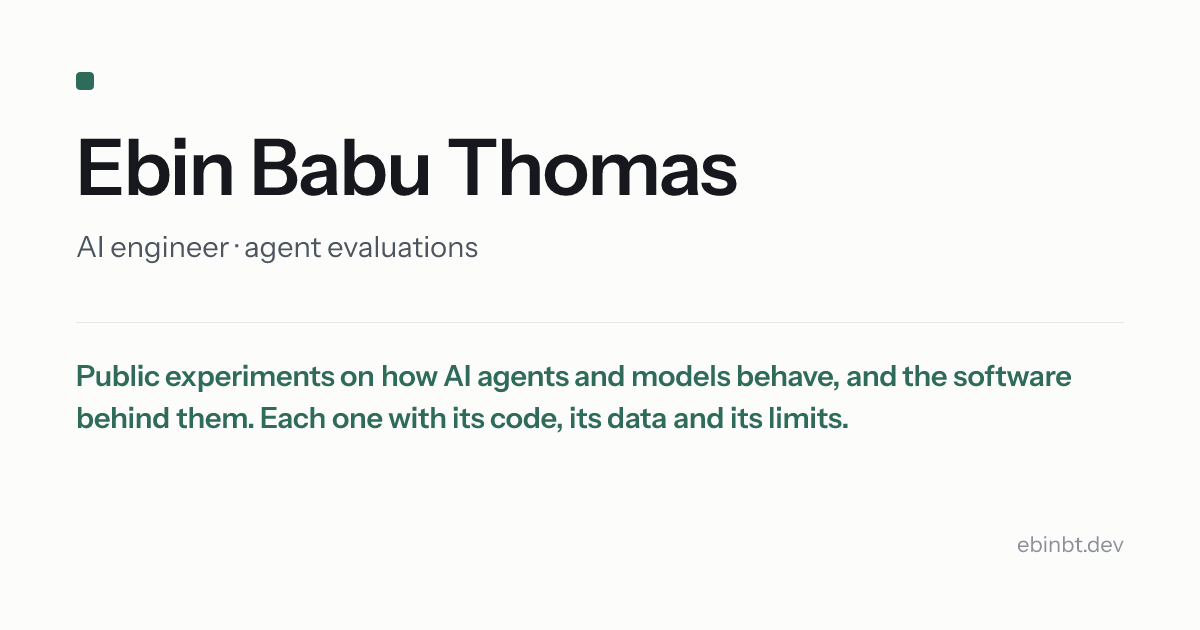
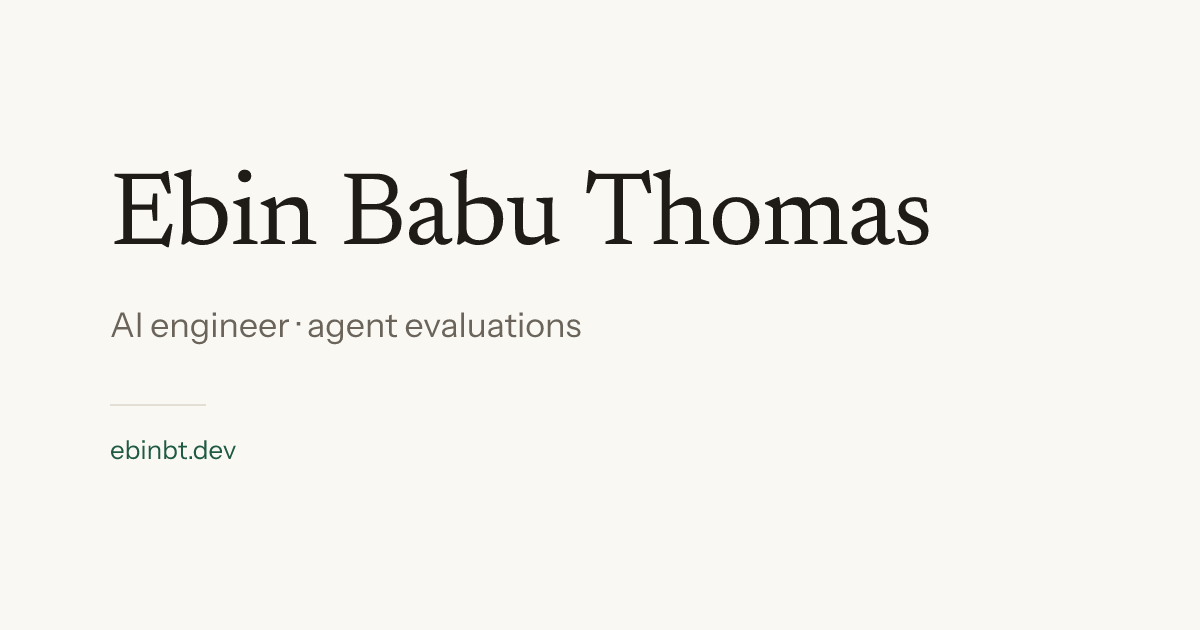
site: redirects for old URLs, simpler postbuild, new OG card
public/_redirects maps /now/, /work/ and /writing/; postbuild appends
/work/<old-slug>/ -> /#<slug> unless a new work page exists. RSS and
sitemap list the article pages. og.png redrawn on paper with a serif name.

diff --git a/DEPLOY.md b/DEPLOY.md
@@ -47,18 +47,24 @@ npm run preview  # sanity-check out/ on localhost before publishing
 
 ```
 out/
-  index.html            / (and one .html per route, trailing-slash directories)
-  work/<slug>/index.html
-  writing/index.html
-  now/index.html
+  index.html            / — the whole site on one page (copy: src/content/home.ts)
+  work/<slug>/index.html     one per src/content/work/*.md
+  writing/<slug>/index.html  one per src/content/writing/*.md with no external url
   404.html              served by not_found_handling
+  _redirects            public/_redirects + per-project lines from postbuild
   rss.xml               written by scripts/postbuild.mjs
   sitemap-0.xml         written by scripts/postbuild.mjs
   sitemap-index.xml     written by scripts/postbuild.mjs
-  _next/                hashed CSS/JS chunks
-  og.png, favicon.ico, resume.pdf, robots.txt
+  _next/                hashed CSS/JS chunks and self-hosted fonts
+  og.png, me.jpg, favicon.ico, robots.txt, _headers
+  resume.pdf, resume/engineer.pdf, resume/research.pdf, cv.pdf
   icon.svg, apple-icon.png   from src/app/ (Next metadata file convention)
 ```
+
+Old URLs (`/now/`, `/work/`, `/writing/`, `/work/<old-slug>/`) are 301s to
+anchors on the home page; see `public/_redirects` and `OLD_WORK` in
+`scripts/postbuild.mjs`. A slug that gets its own page in
+`src/content/work/` is dropped from the redirects automatically.
 
 ## Analytics (optional)
 
